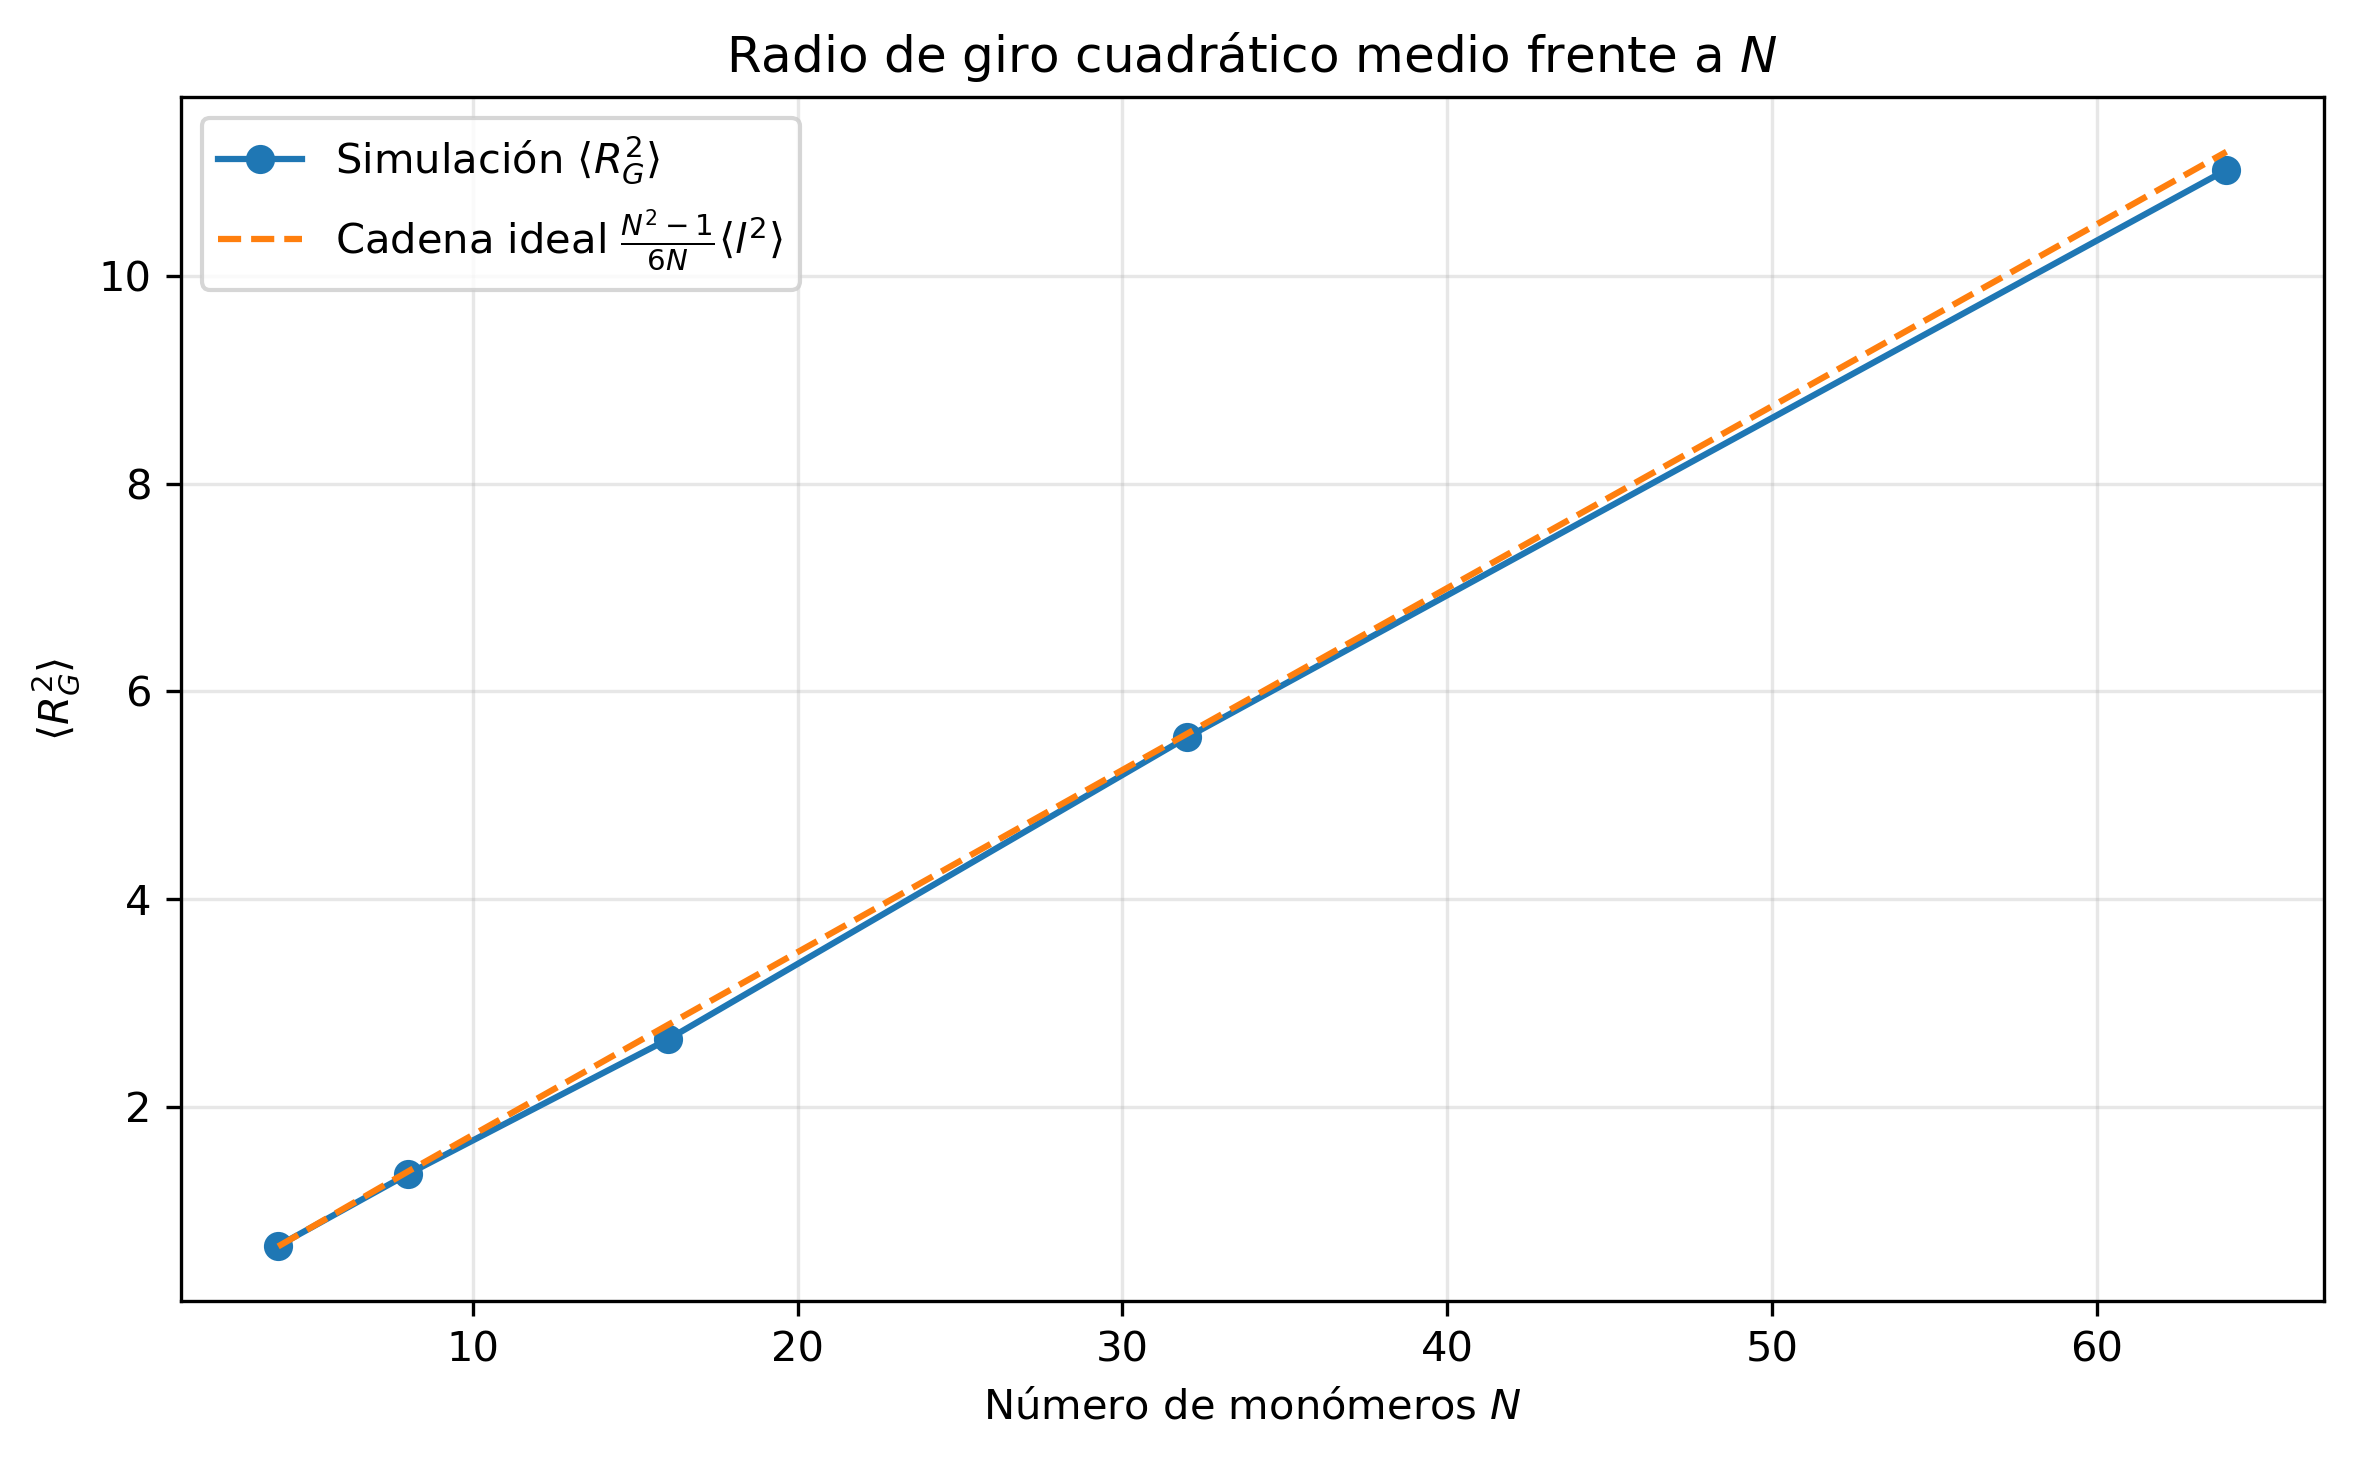
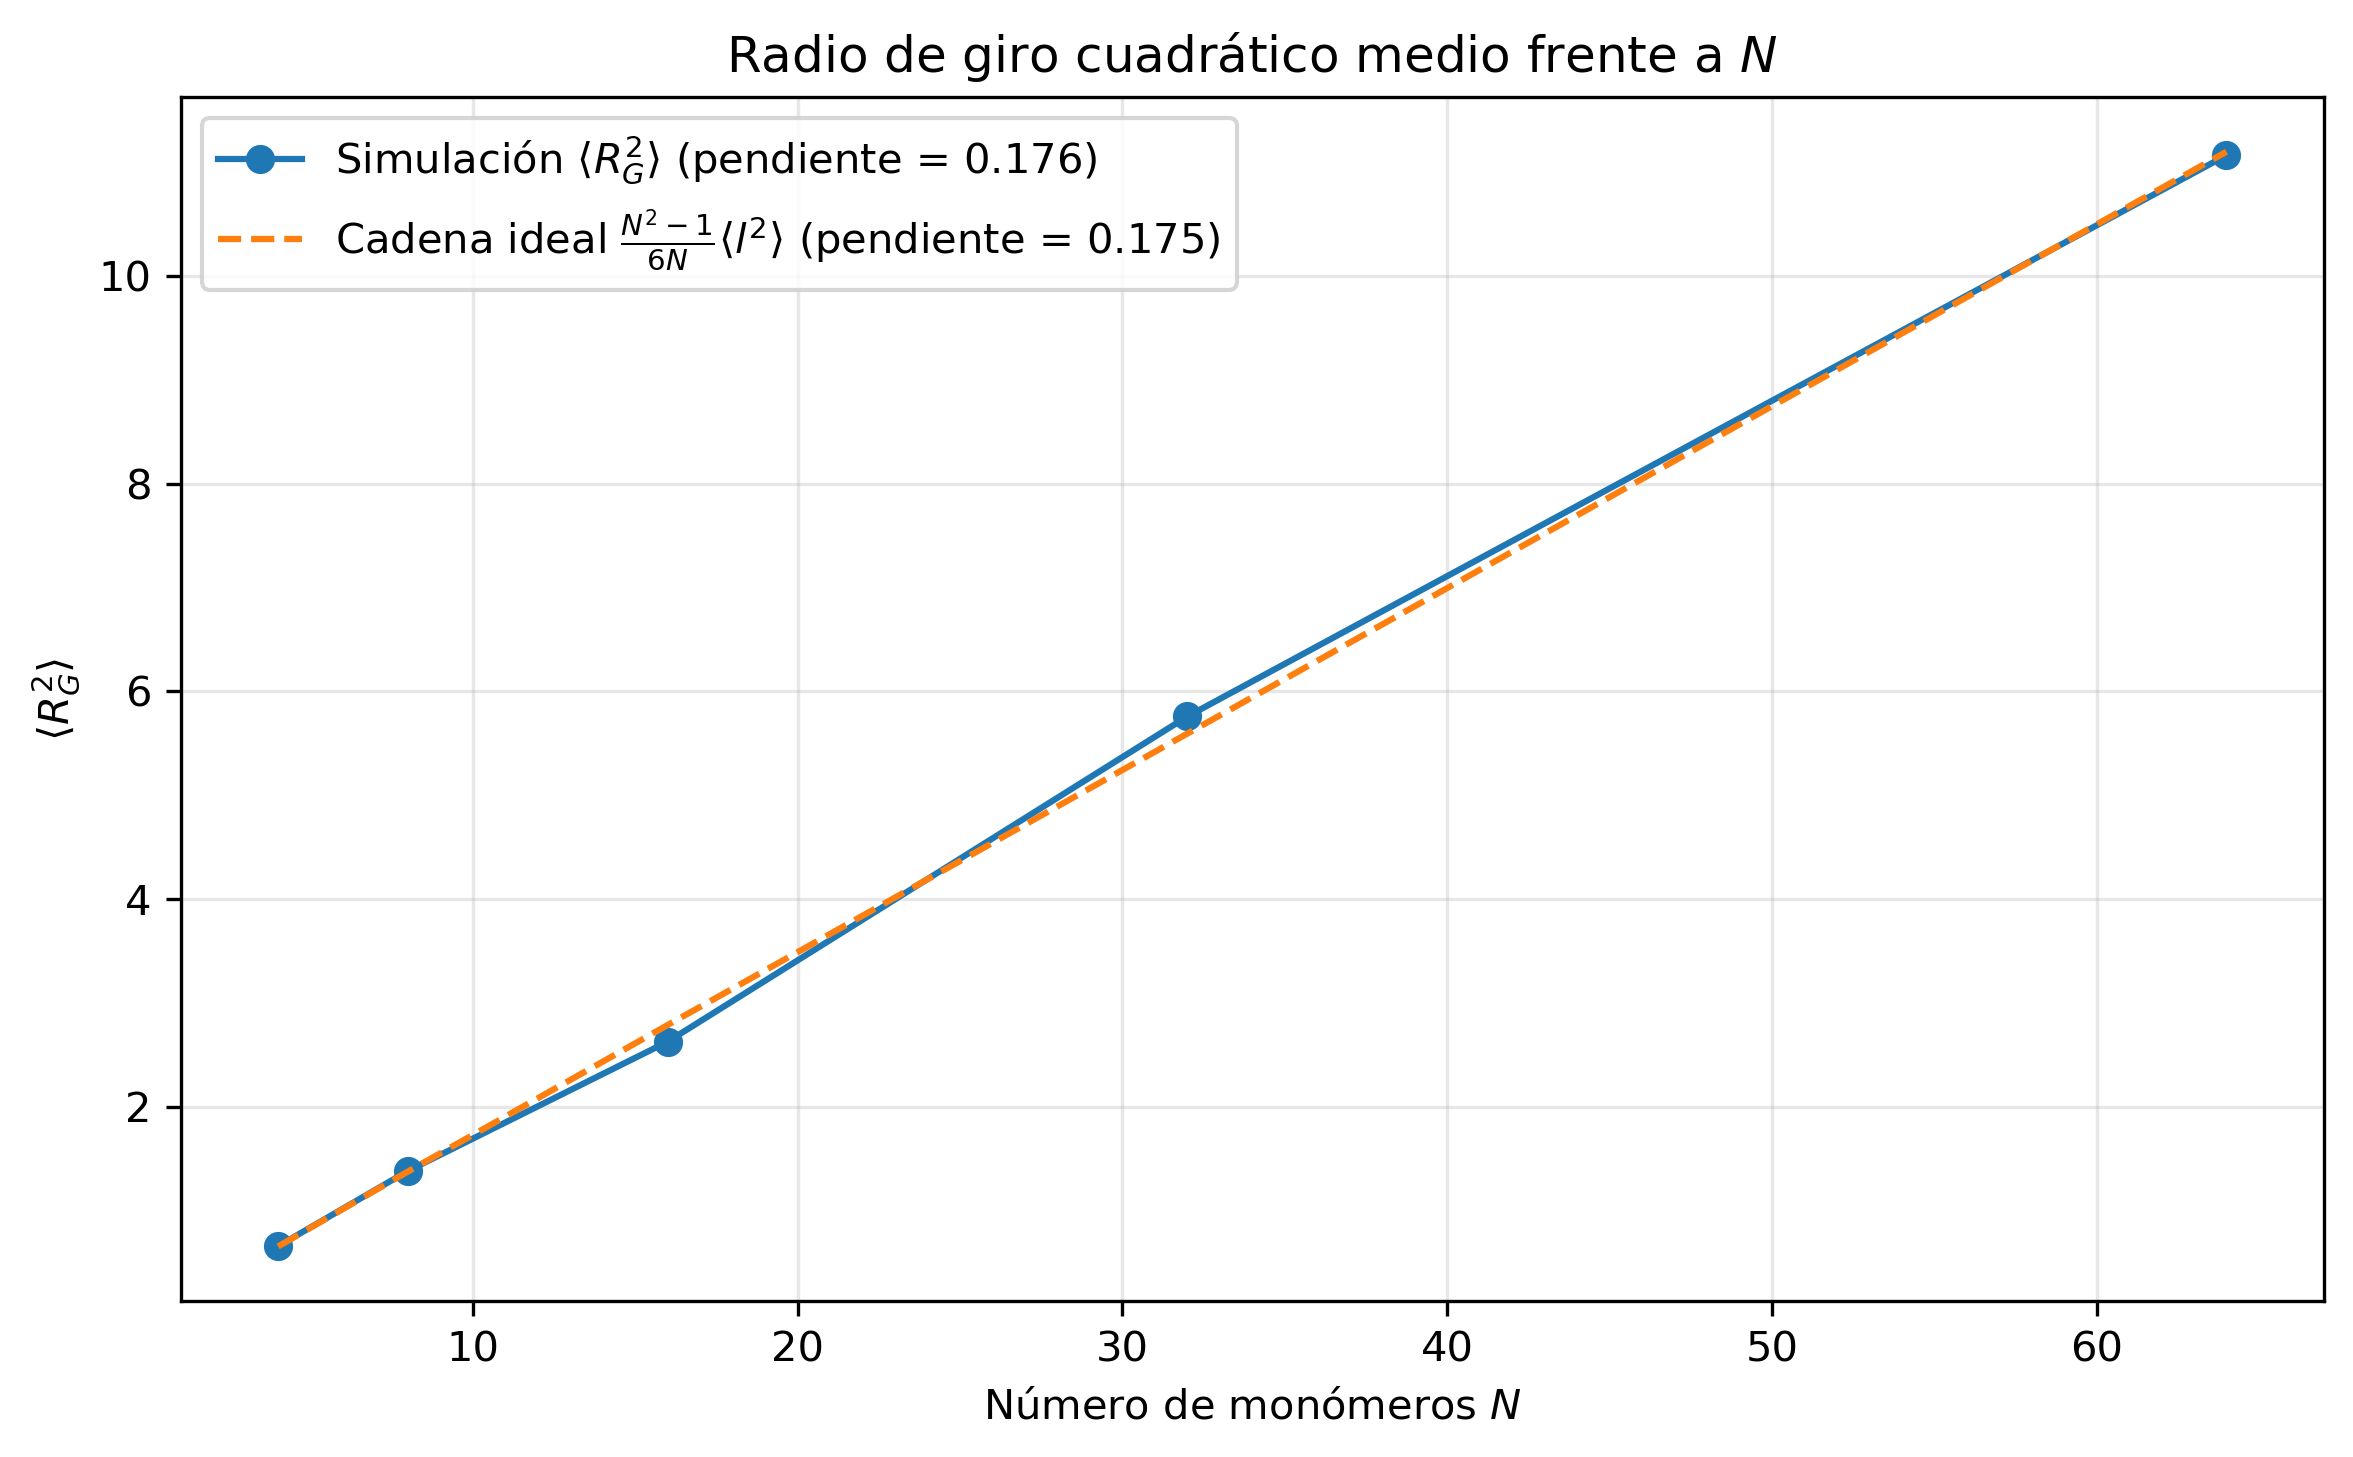
Add theoretical and experimental slopes to gyration plot

diff --git a/analysis/polymer_size_sweep.py b/analysis/polymer_size_sweep.py
@@ -2437,18 +2437,40 @@ plt.figure(
     figsize=(8, 5)
 )
 
+rg2_experimental_slope = float(
+    np.polyfit(
+        N_plot,
+        rg2_mean,
+        1
+    )[0]
+)
+
+rg2_theoretical_slope = float(
+    np.polyfit(
+        N_plot,
+        rg2_theory_arr,
+        1
+    )[0]
+)
+
 plt.plot(
     N_plot,
     rg2_mean,
     marker="o",
-    label=r"Simulación $\langle R_G^2\rangle$"
+    label=(
+        r"Simulación $\langle R_G^2\rangle$ "
+        rf"(pendiente = {rg2_experimental_slope:.3f})"
+    )
 )
 
 plt.plot(
     N_plot,
     rg2_theory_arr,
     linestyle="--",
-    label=r"Cadena ideal $\frac{N^2-1}{6N}\langle l^2\rangle$"
+    label=(
+        r"Cadena ideal $\frac{N^2-1}{6N}\langle l^2\rangle$ "
+        rf"(pendiente = {rg2_theoretical_slope:.3f})"
+    )
 )
 
 plt.xlabel(
